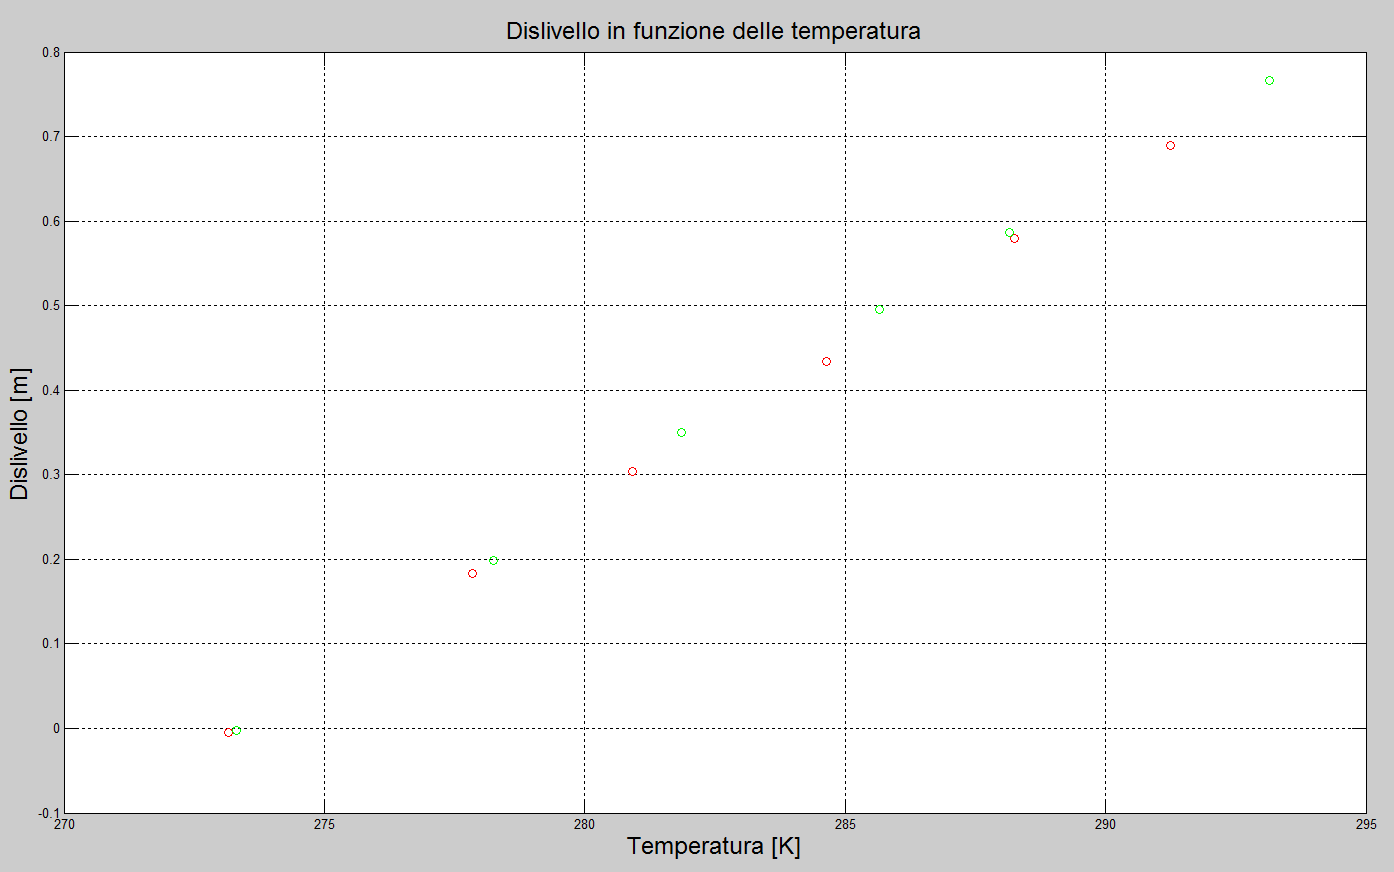
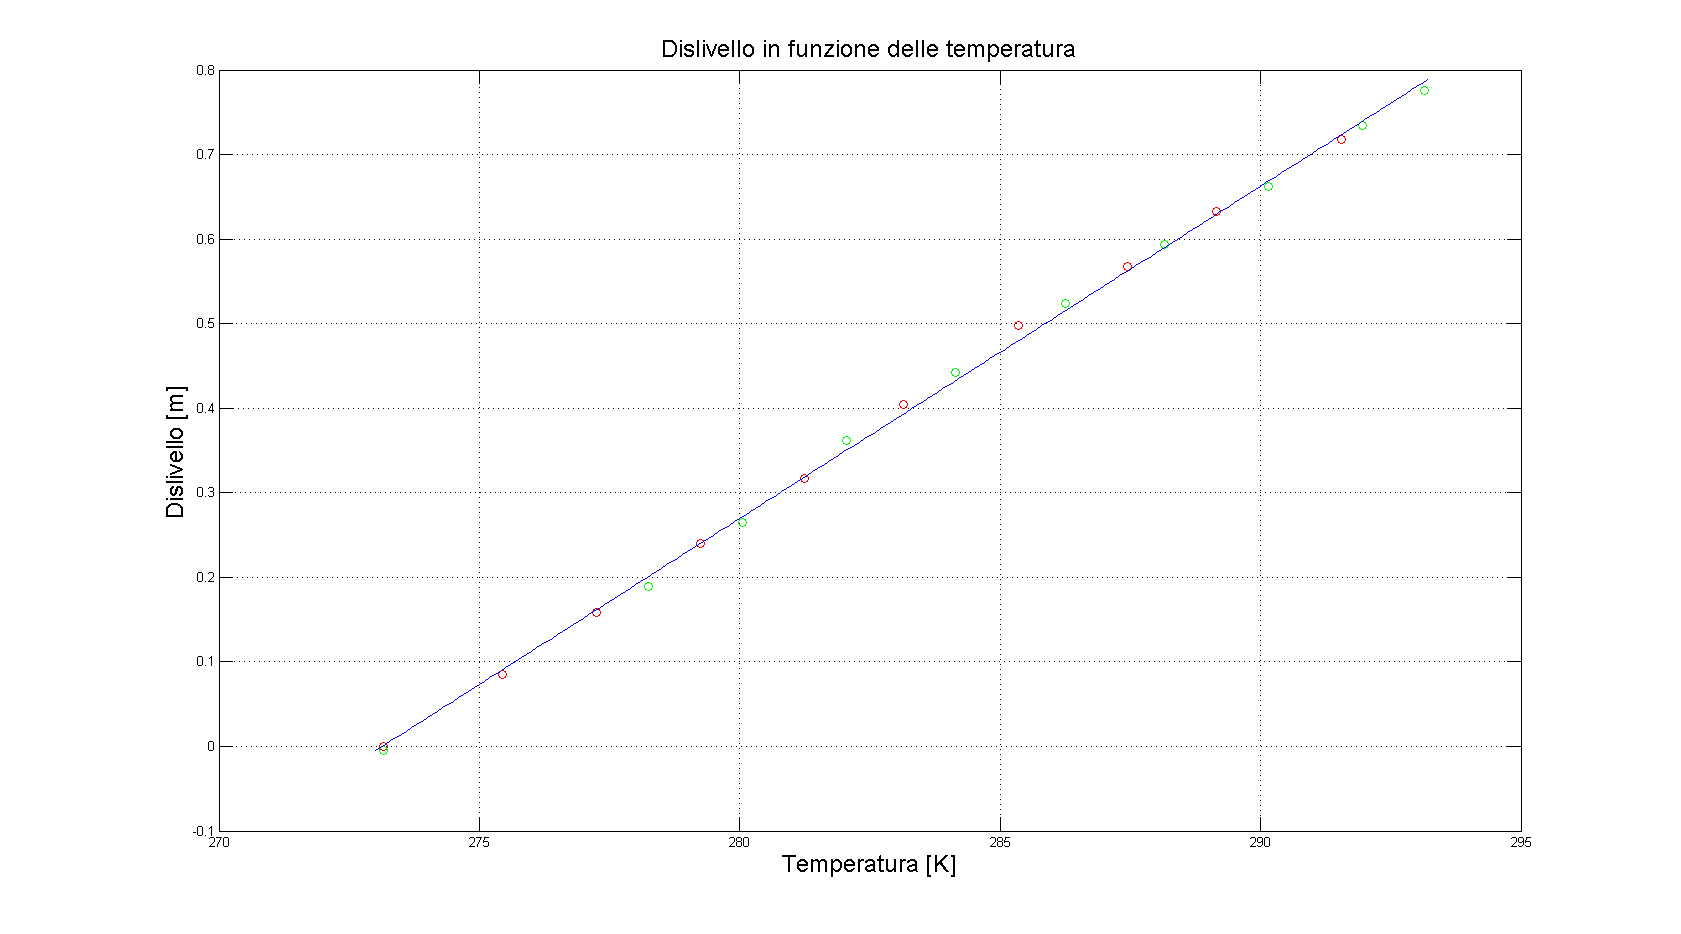
Update

diff --git a/parte1.tex b/parte1.tex
@@ -53,7 +53,6 @@ L'incertezza su questa misura è data dalla risoluzione del barometro, ovvero $\
 
 \begin{table}[H]
 \centering
-
 	\begin{subtable}{.5\textwidth}
 		\centering
 		\begin{tabular}{|c|c|} \hline
@@ -92,22 +91,50 @@ L'incertezza su questa misura è data dalla risoluzione del barometro, ovvero $\
 
 \caption{Dislivello $\Delta h$ in funzione della temperatura $T$}
 \end{table}
-In Tabella 1.a e Tabella 1.b troviamo riportati i dati raccolti durante la nostra esperienza rispettivamente aumentando e diminuendo la temperatura del bagno termico. 
-Notiamo che l'ultimo valore della Tabella 1.a è uguale al primo valore della Tabella 1.b.
+In Tabella 1.a e Tabella 1.b troviamo riportati i dati raccolti durante la nostra esperienza rispettivamente aumentando e diminuendo la temperatura del bagno termico.
 Troviamo graficati tali dati in Figura 1. 
 
 \begin{figure}[H]
 \centering
 \includegraphics[width=\textwidth]{img/1}
-\caption{Grafico di $\Delta h$ in funzione di $T$: scegliamo di rappresentare in colore rosso i dati riportati in Tabella 1.a ed in colore verde i dati riportati in Tabella 1.b}
+\caption{Grafico di $\Delta h$ in funzione di $T$: in colore rosso i dati riportati in Tabella 1.a ed in colore verde i dati riportati in Tabella 1.b}
 \end{figure}
 
 Tramite regressione lineare troviamo la retta $h = A+B\theta$ che meglio interpreta i nostri dati. 
-Le formule per il calcolo sono la \eqref{eq:a} e la \eqref{eq:b} riportate in appendice.
-Verifichiamo la bontà di questo risultato tramite test del $\chi^2$. Ci viene un $\chi^2=boh$, troppo alto rispetto all'aspettativa di 9 gradi di libertà.
-L'incertezza è quindi troppo piccolo. 
-Ricalcoliamo a posteriori l'incertezza e discutiamone la plausibilità.\\
+Per farlo dobbiamo innanzitutto trasferire le incertezze dalle ascisse alle ordinate, procediamo quindi a stimare graficamente un valore iniziale della pendenza $b$ della retta e trasferiamo l'incertezza.
+\begin{equation}
+\sigma(\Delta h)_{tot} = \sqrt{\sigma(\Delta h)^2 + (b\sigma T)^2}
+\end{equation}
+Le formule per il calcolo sono la \eqref{eq:a} e la \eqref{eq:b} riportate in appendice. Otteniamo:
+\[a =-10.7291 \pm 0.0119 \quad  b= 0.0393\pm  0.000041966\]
+Verifichiamo la bontà di questo risultato tramite test del $\chi^2$. Ci viene un $\chi^2=948.6366$, decisamente troppo alto come valore.
+La retta quindi interpreta malamente i nostri dati. In Figura 1 si può osservare come vari dati non stiano sulla retta. Sempre dal grafico possiamo osservare come i nostri dati possano comportarsi in maniera diversa sopra e sotto i 285 K. Infatti questa è circa la temperatura di rugiada dell'aria. Ci aspettiamo quindi che al di sopra di questa temperatura l'aria si comporti come gas ideale mentre al di sotto ci sarà un contributo dato dal vapore che sarà pari alla tensione di vapor saturo, avremmo quindi una più forte pendenza in funzione della temperatura in quanto la tensione di vapore saturo mostra derivata rispetto alla temperatura maggiore rispetto a quella del gas perfetto.\\
 \newline
+Dividiamo quindi il problema in due parti divise dalla temperatura di rugiada 285 K.
+
+\begin{figure}[H]
+\centering
+\includegraphics[width=\textwidth]{img/2}
+\caption{Grafico di $\Delta h$ in funzione di $T$: 2 rette diverse per i dati divisi da 285 K}
+\end{figure}
+
+Iniziamo a valutare i dati al di sotto dei 285 K.\\
+Procediamo nello stesso identico modo di prima e tramite regressione lineare troviamo la retta $h = A+B\theta$.
+Otteniamo:
+\[a =-11.0928 \pm 0.0289 \quad  b= 0.0406\pm 0.00010355\]
+Il $\chi^2$ ci da: 231.5047. Decisamente troppo alto, molto probabilemente abbiamo sottostimato le incertezze sui valori, calcoliamo le incertezze a posteriori:
+\begin{equation}
+\label{eq:post}
+\sigma(\Delta h)_{post} = \frac{1}{N-2}\sum_{i=1}^N(h-a-bT)^2
+\end{equation}
+Ci viene un incertezza a posteriori pari a $6.3\, mm$. È piuttosto difficile attriburla alla lettura del metro. In questa incertezza però innanzitutto contribuisce anche la risoluzione del termometro che non basta però a spiegare questa incertezza. Per comprenderne iL significato dobbiamo considerare la variazione di pressione atromosferica durante la sessione in cui si sono prese le misure. Questa analisi iniziale non ne tiene conto il suo effetto però si evidenzia bene in questa incertezza.\\
+\newline
+Studiamo ora l'andamento dei dati al di sopra dei 285K. Sempre allo stesso modo cerchiamo la retta $h = A+B\theta$ che interpreta meglio i nostri dati. Otteniamo:
+\[a = -9.8096 \pm 0.0385 \quad  b= 0.0361 \pm 0.0001327\]
+IL test del $\chi^2$ ci fornisce la bontà di questo fit: $\chi^2 = 48.5434$. Un po troppo alto rispetto a quello che volevamo. Procediamo dunque a calcolare l'incertezza a posteriori con l'equazione \eqref{eq:post} e otteniamo un incerteza a posteriori di $2.8\, mm$, che può essere comprensibile tenendo conto della risoluzioni di 1 millimetro del metro, della risoluzione del termometro trasferita e della variazione di pressione atmosferica durante l'acquisizione dei dati.
+
+
+\subsection{Determinazione dello \emph{zero assoluto}}
 Durante l'esperienza si è utilizzato un barometro in laboratorio per la misura della pressione atmosferica $P_A$ variabile nel tempo. Nel nostro manometro differenziale la pressione dovuta alla colonnina di acqua è data da: $\Delta P = \rho gh$. 
 La pressione $P$ del nostro gas è quindi 
 \begin{equation}
@@ -137,6 +164,5 @@ Stima delle incertezze\\
 
 Da inserire in grafico :)
 
-\subsection{Determinazione dello \emph{zero assoluto}}
 Lo zero assoluto è rappresentato graficamente dall'intersezione tra la retta del dislivello $\Delta h$ in funzione della temperatura $T$ e l'asse delle ascisse.
 Questo punto rappresenta la condizione $P = 0$.

diff --git a/appendice.tex b/appendice.tex
@@ -1,7 +1,7 @@
 \begin{appendices}
 
 \section{Metodo dei minimi quadrati}
-Applicando il metodo dei minimi quadrati alla legge lineare $ y = A + Bx$ la discrepanza risulta:
+Applicando il metodo dei minimi quadrati alla legge lineare $y = A + Bx$ la discrepanza risulta:
 
 \begin{equation}
 \displaystyle\sum_{i=1}^{N}\frac{(y_i -A-Bx_i)^2}{(\sigma y_i)^2}
@@ -35,14 +35,14 @@ Le incertezze sui parametri sono date da:
 	\centering
 	\begin{tabular}{|c|c|} \hline
 		\textbf{P {[Pa]} } & \textbf{ORA {[hh:mm]} }  \\ \hline
-		$9.716x10^4$ & 14.40  \\ \hline
-		$9.176x10^4$ & 15.00  \\ \hline
-		$9.769x10^4$ & 15.22  \\ \hline
-		$9.769x10^4$ & 16.42  \\ \hline
-		$9.772x10^4$ & 16.25  \\ \hline
-		$9.759x10^4$ & 16.52  \\ \hline
+		$9.716\times 10^4$ & 14.40  \\ \hline
+		$9.176\times 10^4$ & 15.00  \\ \hline
+		$9.769\times 10^4$ & 15.22  \\ \hline
+		$9.769\times 10^4$ & 16.42  \\ \hline
+		$9.772\times 10^4$ & 16.25  \\ \hline
+		$9.759\times 10^4$ & 16.52  \\ \hline
 	\end{tabular}
-	\caption{Pressione del gas in funzione dell'ora}
+	\caption{Pressione atmosferica in funzione dell'ora}
 \end{table}
 
 \section{Umidità dell'aria}
@@ -59,7 +59,4 @@ Le incertezze sui parametri sono date da:
 	\end{tabular}
 	\caption{Umidità dell'aria in funzione dell'ora}
 \end{table}
-
-
-
 \end{appendices}

diff --git a/parte2.tex b/parte2.tex
@@ -49,7 +49,8 @@ Le formule per il calcolo sono la \eqref{eq:a} e la \eqref{eq:b} riportate in ap
 Verifichiamo la bontà di questo risultato tramite test del $\chi^2$. Ci viene un $\chi^2=boh$, troppo alto rispetto all'aspettativa di 9 gradi di libertà.
 L'incertezza è quindi troppo piccolo. 
 Ricalcoliamo a posteriori l'incertezza e discutiamone la plausibilità.\\
-\newline
+
+\subsection{Determinazione dello \emph{zero assoluto}}
 Durante l'esperienza si è utilizzato un barometro in laboratorio per la misura della pressione atmosferica $P_A$ variabile nel tempo. Nel nostro manometro differenziale la pressione dovuta alla colonnina di acqua è data da: $\Delta P = \rho gh$. 
 La pressione $P$ del nostro gas è quindi 
 \begin{equation}
@@ -79,6 +80,6 @@ Stima delle incertezze\\
 
 Da inserire in grafico :)
 
-\subsection{Determinazione dello \emph{zero assoluto}}
+
 Lo zero assoluto è rappresentato graficamente dall'intersezione tra la retta del dislivello $\Delta h$ in funzione della temperatura $T$ e l'asse delle ascisse.
 Questo punto rappresenta la condizione $P = 0$.
